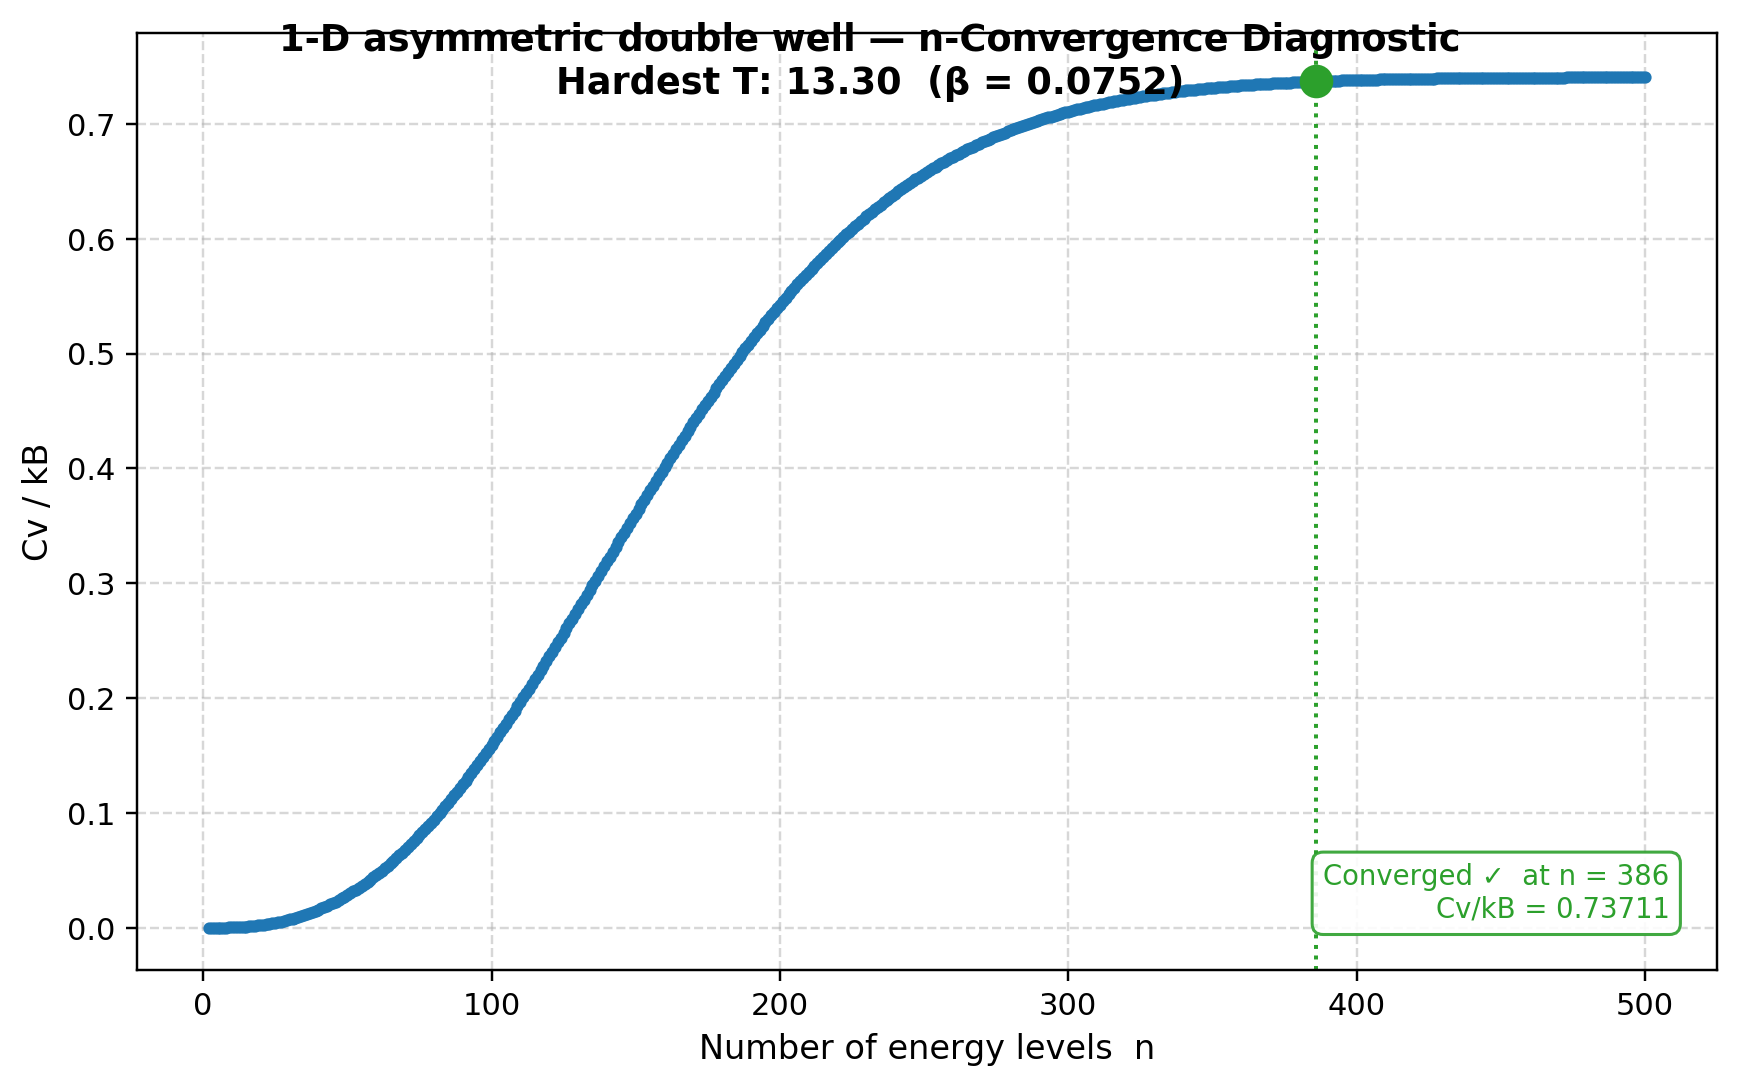
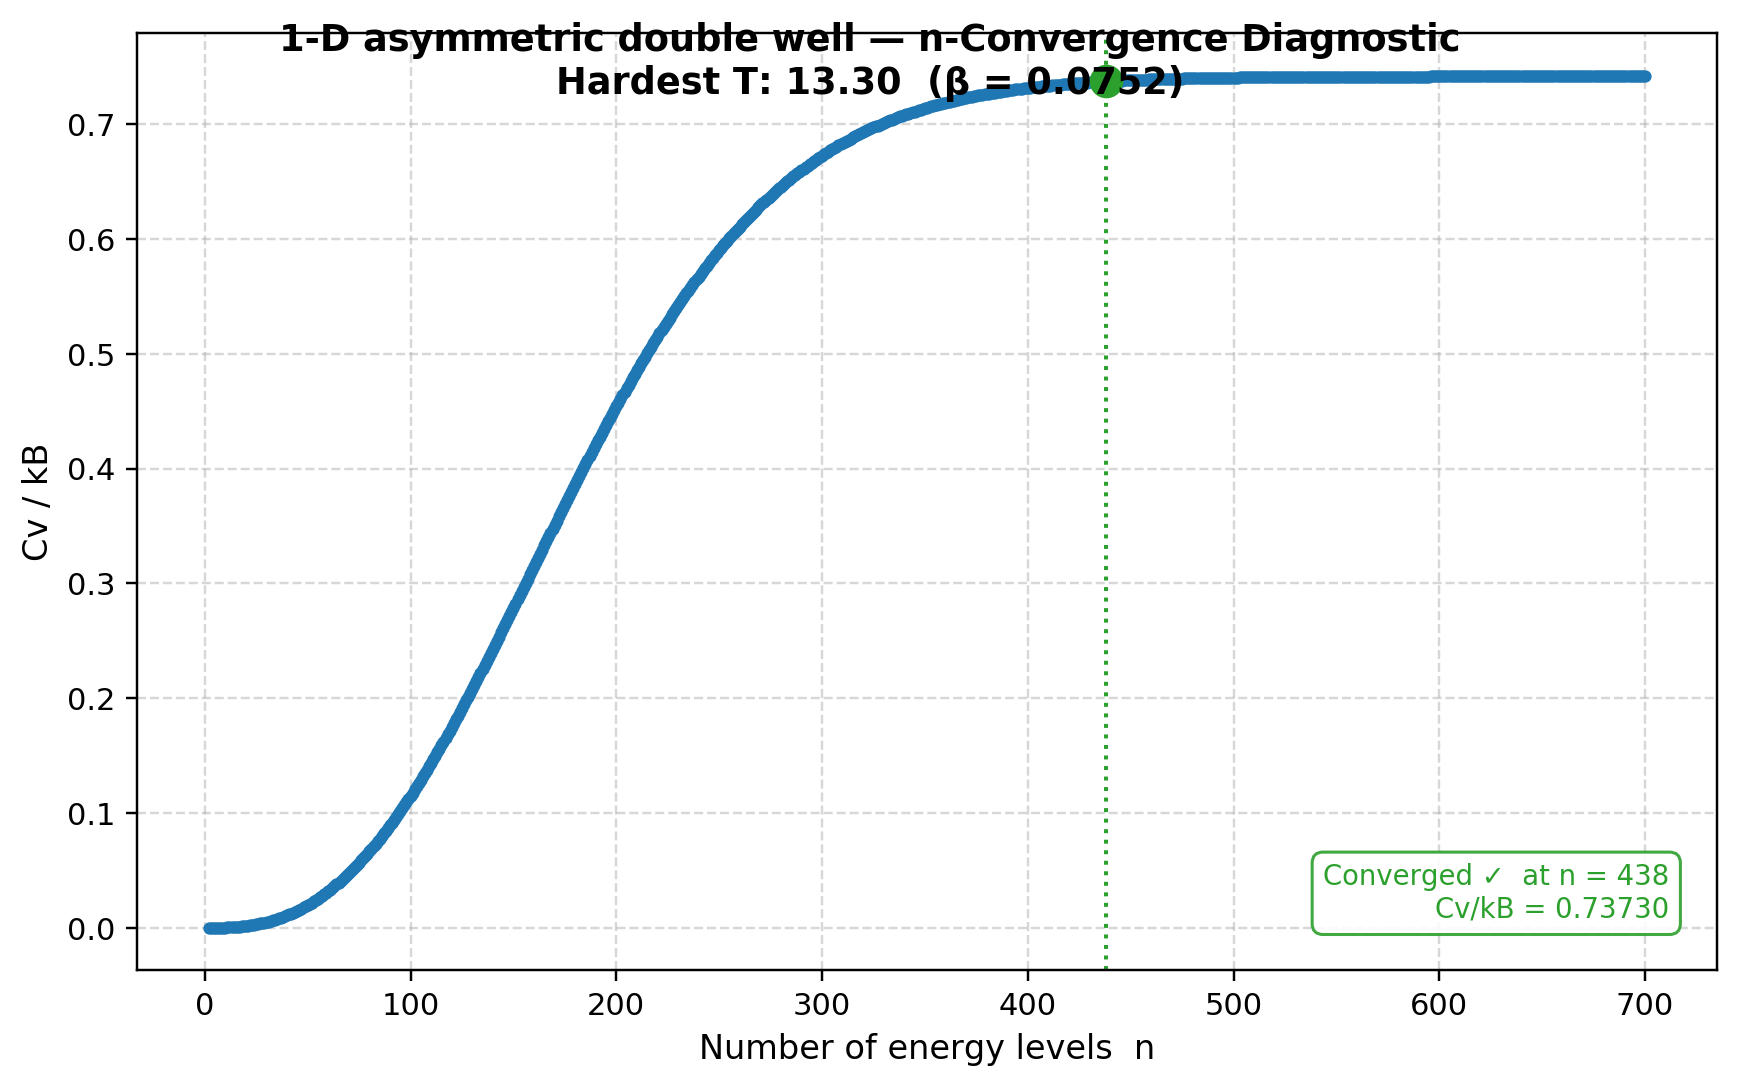
Fix jagged coefficient-sweep curves: log-space beta_arr instead of linear
Quantum_Classical_Combined.run() built beta_arr with np.linspace, but
BETA_MIN/BETA_MAX typically span more than a decade and every plot in
the project displays T=1/beta on a log axis. For the project's typical
range, linear spacing left roughly 3 points across the whole T=5-13
decade versus ~150 with log spacing -- visibly polygonal ("connected
straight lines" instead of smooth) wherever a curve's transition
happened to land in that starved stretch, most noticeable for whichever
coefficient-sweep variant's anomaly sits at higher T.

beta_arr is now built with np.geomspace, matching the log-T display
convention already used everywhere it's consumed (Sections 4, 6, 7 all
share this one array via base_cv_results["beta_arr"]) -- a pure
visualization/sampling fix, not a physics change; each sampled point's
Cv value is still exact, only where the samples land changes. N_BETA
remains the knob to raise if a curve still looks under-resolved.

Verified against the reported scenario (SCAN_PARAM="b", wide sweep) --
the previously-jagged high-b curves are now smooth through their full
peak and classical-limit approach.

Also documents the reuse-validity rationale and this fix in FINDINGS.md
(new Key Parameters row, Troubleshooting entry) and HISTORY.md, and
picks up the user's own config changes (NUM_STATES=700, SCAN_PARAM="b",
SCAN_STEP=0.2, SCAN_COUNT=4) plus the figures regenerated from them.

diff --git a/src/Quantum_Classical_Combined.py b/src/Quantum_Classical_Combined.py
@@ -253,7 +253,17 @@ def run(energies, system_name,
     system_name : str
         Human-readable system name, used in plot titles/console output.
     beta_min, beta_max, n_beta : float, float, int, optional
-        Inverse-temperature sweep range and point count.
+        Inverse-temperature sweep range and point count. `beta_arr` is
+        LOG-spaced (`np.geomspace`), not linear: every plot in this
+        project displays T on a log axis, and beta_min/beta_max
+        typically span more than a decade, so linear spacing in beta
+        leaves the high-T tail (small beta) drastically under-sampled
+        relative to how it's actually viewed -- e.g. for a typical
+        beta_min~0.075/beta_max=50/n_beta=1000, linear spacing puts
+        just ~3 points across the T=5-13 decade (visibly polygonal,
+        "connected straight lines" instead of a smooth curve, most
+        noticeable wherever a curve's transition happens to land in
+        that stretch), where log spacing puts ~150.
     xi_start, tol_xi, min_stable_xi, xi_multiplier, max_xi_steps :
         Passed through to `converge_xi` at every temperature.
     tol_cv, min_stable_n :
@@ -274,13 +284,13 @@ def run(energies, system_name,
             Full output of `sweep_temperature_range` (includes
             per-temperature convergence traces for further inspection).
     """
-    beta_arr = np.linspace(beta_min, beta_max, n_beta)
+    beta_arr = np.geomspace(beta_min, beta_max, n_beta)
     T_arr = 1.0 / beta_arr
 
     rule = "\u2550" * 60
     print(f"\n{rule}\n  {system_name}\n{rule}")
     print(f"  {len(energies)} levels, E_min={energies[0]:.3g}, E_max={energies[-1]:.3g}")
-    print(f"  \u03b2: {beta_min} \u2192 {beta_max}  ({n_beta} points)")
+    print(f"  \u03b2: {beta_min} \u2192 {beta_max}  ({n_beta} log-spaced points)")
 
     sweep = sweep_temperature_range(
         energies, beta_arr,

diff --git a/src/config.py b/src/config.py
@@ -86,7 +86,7 @@ POTENTIAL_FORMULA = r"$V(x) = <<a>>x^4<<b>>x^3<<c>>x^2<<d>>x$"
 # Cv_AutoTune.py) will grow this if the hot end of the sweep shows
 # signs of thermal-occupation truncation (the "numerical Schottky
 # anomaly"). 500 gives comfortable headroom for this system already.
-NUM_STATES = 500
+NUM_STATES = 700
 
 # --- Temperature sweep ---
 # BETA_MIN = None means "auto": Quantum_HO_Master.py derives it from
@@ -118,9 +118,9 @@ ESCALATION_FRACTION_THRESHOLD = 0.05  # fraction of a sweep half allowed to fail
 # values, and how many EXTRA potentials to add on each side of the
 # value already set above (so the base value/potential is always one
 # of the plotted curves). Total curves plotted = 2*SCAN_COUNT + 1.
-SCAN_PARAM = "a"
-SCAN_STEP  = 0.5
-SCAN_COUNT = 2
+SCAN_PARAM = "b"
+SCAN_STEP  = 0.2
+SCAN_COUNT = 4
 
 # --- xi / n convergence parameters ---
 # XI_START = 3.0: first probe is already at effective T/9, allowing

diff --git a/HISTORY.md b/HISTORY.md
@@ -25,6 +25,7 @@ Two further additions, both aimed at exploring the double well's Schottky-anomal
 - **Auto-tuning (`Cv_AutoTune.py`).** Manually changing the temperature range (`BETA_MIN`/`BETA_MAX`) could silently produce two known artifacts, already documented as manual remedies in `FINDINGS.md`'s Troubleshooting table: a numerical-Schottky-like truncation collapse in quantum $C_v$ at high $T$ (too few levels for that temperature) and a spurious drop in the classical limit at low $T$ (the $\xi$-scan running out of budget before the plateau). Sections 1 and 4 were merged into one closed-loop escalation: after each DVR solve + Cv sweep, the sweep's own existing diagnostics (finite-$N$ collapse, $n$-convergence margin, $\xi$-scan `max_steps` exhaustion) are inspected on the matching half of the temperature range, and `NUM_STATES` / `XI_START`+`MAX_XI_STEPS` are grown automatically before retrying — bounded by `MAX_ESCALATION_ROUNDS`. `BETA_MIN` also gained an "auto" mode (`None`), derived from `T_max = 10\Delta E/k_B` (the fundamental gap), so temperature range is the only parameter that needs hand-editing run to run.
 - **Coefficient sweep (`Cv_Coefficient_Sweep.py`, Section 7).** To study how one potential coefficient (e.g. the double well's cubic `b`) affects the size of the Schottky-anomaly-like bump, a comparison plot overlays several variants' quantum $C_v(T)$ curves — swept via `SCAN_PARAM`/`SCAN_STEP`/`SCAN_COUNT`, centered on and always including the base value — against the single classical-limit curve already computed for the base potential, without redoing any $\xi$/$n$-convergence search per variant. The plot is titled with the potential's actual formula (`config.POTENTIAL_FORMULA`, fixed coefficients numeric, the swept one symbolic). A variant whose coefficient value makes the potential non-confining (and so fails its DVR solve) no longer aborts the whole sweep: the failure is caught, diagnosed with a cheap potential-agnostic unboundedness check, and omitted, with the figure still built from whichever variants converged. That exploration also surfaced (and fixed) a latent bug in `DVR_Algorithm.auto_configure_dvr`: for a non-confining potential, `scipy.optimize.minimize`'s result could come back as a length-1 array instead of a scalar, silently propagating array-ness into `dx_target` and crashing a diagnostic print with an opaque `TypeError` instead of the intended, clear `DVR CONVERGENCE ERROR`.
 - **Coefficient sweep, round 2: potential/spectrum comparison + reuse validity check.** A second figure, `potential_comparison.png`, was added alongside the Cv comparison so a bigger anomaly can be visually correlated with the actual change in well shape that caused it — each variant's $V(x)$ + its own low-lying spectrum, zoomed on the well structure and colored to match the Cv plot's legend, falling back from side-by-side panels (≤6 variants) to one shared overlay (≤15) to one figure per variant (beyond that) as the variant count grows. Both figures moved into their own `coefficient_sweep/` folder, out of `cv/`. Separately, reusing the base run's `NUM_STATES` for every variant was checked for validity rather than assumed: by WKB scaling ($E_n\sim a^{1/3}n^{4/3}$ for a quartic well), sweeping a leading coefficient down (not up) can shrink a variant's own $E_{\max}$ below the same hot-end thermal-coverage margin `Cv_AutoTune.py` enforces for the base run, silently risking the very truncation artifact this project's auto-tuning exists to prevent. `solve_variant_with_hot_coverage` now checks that margin per variant and escalates that one variant's own `NUM_STATES` if needed (reusing the base run's own growth/cap/round-limit knobs), flagging (not discarding) a variant that still can't clear it after escalating.
+- **`beta_arr` switched from linear to log spacing.** A coefficient-sweep curve was reported as looking like connected straight-line segments rather than smooth near its high-$T$ end. Root cause: `Quantum_Classical_Combined.run()` built `beta_arr` with `np.linspace`, but `BETA_MIN`/`BETA_MAX` typically span more than a decade and every plot in the project displays $T=1/\beta$ on a log axis -- for the project's typical range, linear spacing put roughly 3 points across the whole $T=5$-$13$ decade versus roughly 150 with log spacing, visibly polygonal wherever a curve's transition happened to land in that stretch (a numerical/visualization artifact, not physics). `beta_arr` is now built with `np.geomspace`, matching the log-$T$ display convention everywhere it's used (Sections 4, 6, 7 all share this one array). `N_BETA` remains the knob to raise if a curve still looks under-resolved anywhere.
 
 ## Version History
 

diff --git a/FINDINGS.md b/FINDINGS.md
@@ -81,7 +81,7 @@ So for a **fixed** level count $n=$`NUM_STATES`, $E_n$ grows with $a^{1/3}$: swe
 | Parameter | Effect |
 |-----------|--------|
 | `NUM_STATES` | Round-0 starting guess only as of the auto-tune loop (see below) — more levels → higher computational cost, but wider temperature coverage and a higher trustworthy-$n$ ceiling in the DVR limit analysis. |
-| `BETA_MIN` / `BETA_MAX` | Temperature sweep window. `BETA_MIN = None` (default) auto-derives the hot end from $T_{\max}=10\Delta E/k_B$ (see "Auto-Tuning" below); set a float to hand-pick it instead. Too cold a `BETA_MAX` shrinks the range where the classical limit converges. |
+| `BETA_MIN` / `BETA_MAX` / `N_BETA` | Temperature sweep window and point count. `BETA_MIN = None` (default) auto-derives the hot end from $T_{\max}=10\Delta E/k_B$ (see "Auto-Tuning" below); set a float to hand-pick it instead. Too cold a `BETA_MAX` shrinks the range where the classical limit converges. `beta_arr` is built LOG-spaced (`np.geomspace`), matching every plot's log-$T$ axis — a curve that looks like connected straight-line segments rather than smooth (most often near the high-$T$/classical-limit end, or for a coefficient-sweep variant whose transition happens to land there) means too few points for that stretch; raise `N_BETA` rather than switching spacing back to linear. |
 | `XI_START` | Round-0 starting guess only — higher start → classical limit locatable at colder temperatures; `3.0` is a good default and is escalated automatically if the cold end still fails to converge. |
 | `TOL_XI` / `TOL_CV` | Tighter tolerances → more accurate classical limit, at the cost of a slower sweep and more scan steps. Not touched by the auto-tune loop. |
 | `LIMIT_TOLERANCE` | Pass/fail threshold used by the DVR resolution/level-count limit searches. |
@@ -98,3 +98,4 @@ As of the `Cv_AutoTune.py` escalation loop, the two truncation artifacts below a
 - **Classical limit drops at high $T$ / Cv benchmark error rises at high $T$:** the partition sum may be truncating thermally-accessible levels — increase `NUM_STATES` (auto-escalated; the loop checks for this at the hot half of the sweep).
 - **Cv benchmark error rises at low $T$:** the lowest eigenvalues are inaccurate — check the base grid's resolution or boundary span.
 - **Relative-error metrics blowing up at very low $T$:** both the numerator and denominator are underflowing toward zero there; check the *absolute* error instead, which stays meaningful throughout.
+- **A curve looks like connected straight-line segments instead of smooth** (rather than a genuine physical kink): too few `beta_arr` points land in that stretch of $T$ — increase `N_BETA`. `beta_arr` is log-spaced by construction (matching every plot's log-$T$ axis), so this should be rare, but a very wide `BETA_MIN`/`BETA_MAX` range spread thin over a small `N_BETA` can still show it, most often near the high-$T$/classical-limit end or wherever a coefficient-sweep variant's own transition happens to land.
